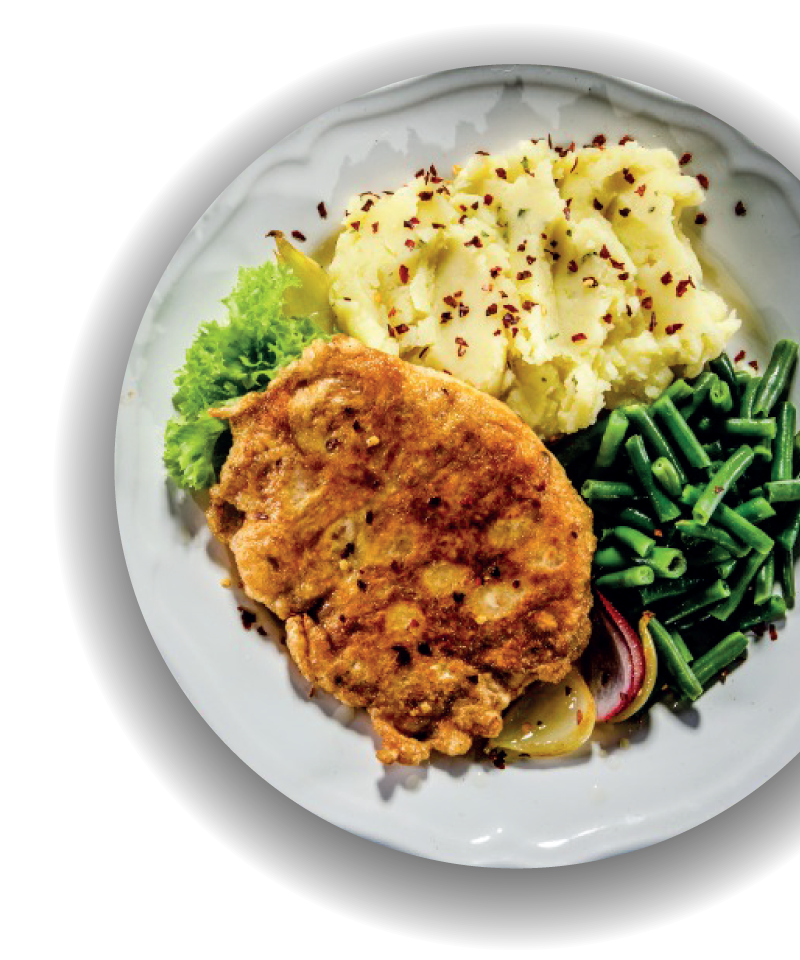
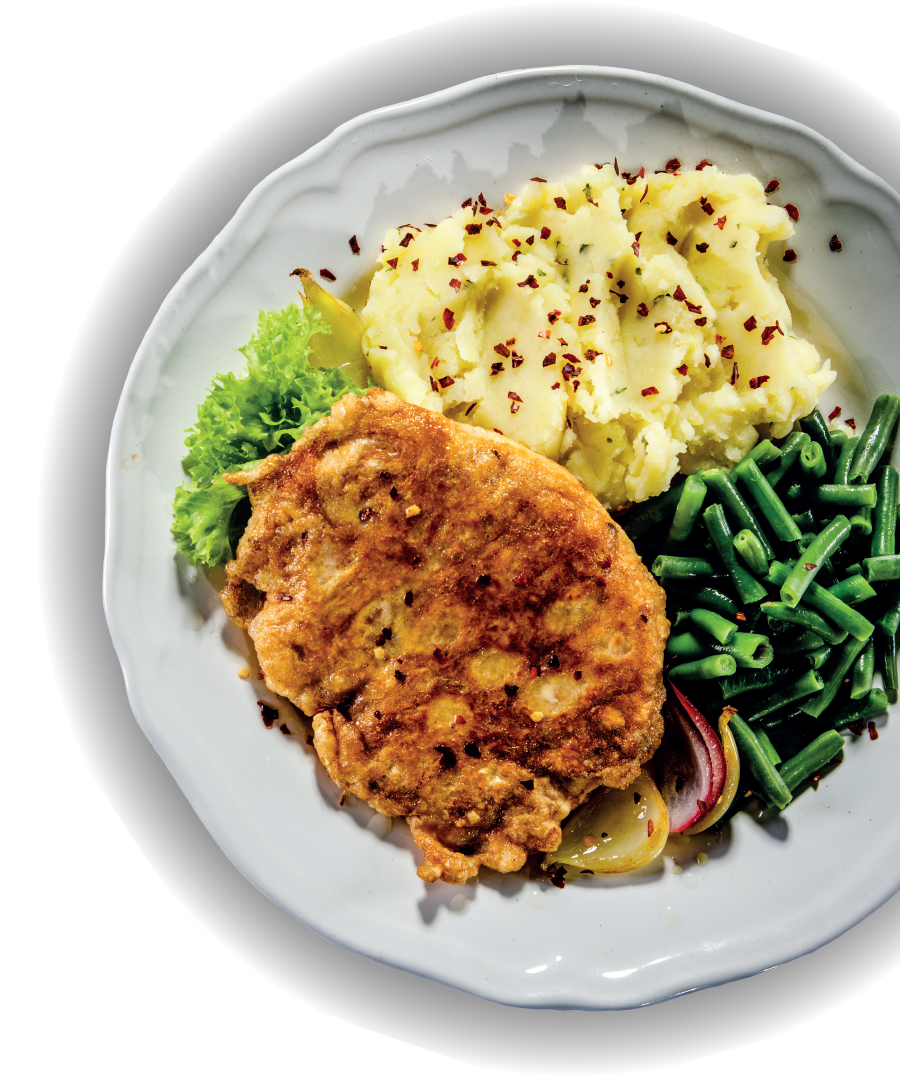
fixes

diff --git a/assets/css/responsive.css b/assets/css/responsive.css
@@ -1,7 +1,6 @@
 /* media query for TABLETS */
 
 @media screen and (min-width: 720px) and (orientation: portrait) {
-
   .header_text h2 {
     font-size: 4rem;
     line-height: 4rem;
@@ -49,7 +48,7 @@
 
   .how_container {
     flex-direction: row;
-    background-image: url('../images/how-bkg.jpg');
+    background-image: url("../images/how-bkg.jpg");
     background-size: cover;
     background-position: center center;
     background-repeat: no-repeat;
@@ -96,7 +95,6 @@
   }
 
   .video_container {
-
   }
 
   /* FORM SECTION */
@@ -114,7 +112,6 @@
   .form_container {
     width: 50%;
   }
-
 
   /* FOOTER SECTION  */
 
@@ -136,25 +133,41 @@
     bottom: 10px;
     right: 30px;
   }
-
 }
 
 @media screen and (min-width: 900px) and (orientation: portrait) {
-
   /* VIDEO SECTION */
 
   .video_section {
     position: relative;
     padding: 15vh 5vw 50px 5vw;
   }
-
 }
-
-
 
 /* DESKTOP AND LAPTOPS */
 
 @media screen and (min-width: 1000px) and (orientation: landscape) {
+  .wrapper {
+    height: 100vh;
+    overflow-x: hidden;
+    overflow-y: auto;
+    perspective: 300px;
+  }
+
+  .parallax__group {
+    position: relative;
+    height: auto;
+    width: 100vw;
+    transform-style: preserve-3d;
+  }
+
+  .parallax__layer {
+    position: absolute;
+    top: 0;
+    left: 0;
+    right: 0;
+    bottom: 0;
+  }
 
   header {
     padding: 0 8vw;
@@ -167,10 +180,14 @@
   }
 
   .plate-one {
-    top: auto;
-    bottom: -100px;
-    height: 90vh;
-    width: auto;
+    left: auto;
+    right: 10vw;
+    bottom: auto;
+    top: 12vh;
+    height: auto;
+    width: 45vw;
+    transform: translateZ(100px) scale(0.7);
+    z-index: 5;
   }
 
   .header_text {
@@ -232,7 +249,7 @@
 
   .how_container {
     flex-direction: row;
-    background-image: url('../images/how-bkg.jpg');
+    background-image: url("../images/how-bkg.jpg");
     background-size: cover;
     background-position: center center;
     background-repeat: no-repeat;
@@ -322,11 +339,9 @@
     bottom: 10px;
     right: 30px;
   }
-
 }
 
 @media screen and (min-width: 1440px) and (orientation: landscape) {
-
   header {
     padding: 0 10vw;
   }
@@ -336,12 +351,12 @@
     width: 120px;
   }
 
-  .plate-one {
+  /* .plate-one {
     top: auto;
     bottom: -120px;
     height: auto;
     width: 45vw;
-  }
+  } */
 
   /* SECTION TWO */
 
@@ -404,5 +419,4 @@
     bottom: 30px;
     right: 5vw;
   }
-
 }

diff --git a/assets/css/master.css b/assets/css/master.css
@@ -2,10 +2,14 @@
   box-sizing: border-box;
 }
 
-body {
+body,
+html {
+  width: 100%;
+  height: 100%;
   margin: 0;
   padding: 0;
-  font-family: 'Montserrat', sans-serif;
+  font-family: "Montserrat", sans-serif;
+  scroll-behavior: smooth;
 }
 
 a {
@@ -15,6 +19,20 @@ a {
 
 p {
   font-size: 0.9rem;
+}
+
+input {
+  -webkit-appearance: none;
+  border: none;
+}
+
+select {
[1 lines of base64/hex data omitted]
+    no-repeat 95% 50%;
+  -moz-appearance: none;
+  -webkit-appearance: none;
+  appearance: none;
+  /* and then whatever styles you want*/
 }
 
 .img-responsive {
@@ -47,6 +65,7 @@ header {
   top: 5vh;
   height: 60vh;
   width: auto;
+  z-index: 2;
 }
 
 .header_text {
@@ -218,11 +237,14 @@ header {
   margin: 30px 0;
 }
 
-.form input,select {
+.form input,
+select {
   width: 100%;
   margin: 5px 0;
   padding: 10px;
-  font-family: 'Open Sans', sans-serif;
+  font-family: "Open Sans", sans-serif;
+  background-color: #fff;
+  border: none;
 }
 
 .submit_container {
@@ -232,7 +254,7 @@ header {
 .submit {
   width: 60%;
   color: #fff;
-  background-color: #eaae37;
+  background-color: #eaae37 !important;
   font-size: 1.5rem;
   font-weight: 700;
   border: none;
@@ -242,7 +264,6 @@ header {
 }
 
 /* FOOTER */
-
 
 footer {
   background-color: #4d4d4f;

diff --git a/index.php b/index.php
@@ -9,7 +9,7 @@ $empresa=$_POST["empresa"];
 $area=$_POST["area"];
 $mail=$_POST["mail"];
 
-$sql = "INSERT INTO infoCon(nombre,apellido,empresa,area,mail) VALUES ('$nombre','$apellido','$empresa','$area','$mail')";
+$sql = "INSERT INTO infoCon(nombre,apellido,empresa,area,mail) VALUES ('$nombre','$apellido','$empresa','$area','$mail','$telefono')";
 
 if (mysqli_query($conn, $sql)) {
     // $SIPS = "Se te ha añadido con éxito";
@@ -46,87 +46,84 @@ if (mysqli_query($conn, $sql)) {
     <link href="assets/ico/icon.svg" rel="mask-icon" sizes="any" color="#718696">
   </head>
   <body>
-    <header>
-      <div class="header_logo">
-        <img class="img-responsive" src="assets/images/nutriwork-logo.png" alt="">
-      </div>
-      <img class="plate-one img-responsive" src="assets/images/plate-1.png" alt="">
-      <div class="header_text">
-        <h2>Alimentate bien </h2>
-        <h2><span class="yellow"><span>en tu traba</span>jo</span></h2>
-        <h2>con NutriWork</h2>
-        <a class="header_link" href="#form">Inscribirme</a>
-      </div>
-    </header>
-    <section class="section_two">
-      <div class="">
-        <h2>¿Sabías qué?...</h2>
-        <p>El <span>42,5%</span> de la alimentación de un adulto promedio se desarrolla en el ambiente de trabajo.</p>
-      </div>
-      <div class="">
-        <img class="target-icon" src="assets/images/target-icon.png" alt="">
-        <p>Nuestra meta es <span>mejorar tu salud y calidad de vida</span> mediante una alimentación balanceada.</p>
-      </div>
-    </section>
-    <section class="section_three">
-      <h2>¿Cómo funciona NutriWork?</h2>
-      <div class="how_container">
-        <div class="how_item">
-          <img src="assets/images/evaluacion.png" alt="">
-          <h4>Evaluación nutricional</h4>
-          <p>Lorem ipsum dolor sit amet, consectetuer adipiscing elit, sed diam nonummy nibh euismod tincidunt ut laoreet dolore magna aliquam erat volutpat.</p>
+    <div class="wrapper">
+      <div class="parallax__group">
+        <img class="parallax__layer plate-one img-responsive" src="assets/images/plate-1.png" alt="">
+        <div class="header_logo">
+          <img class="img-responsive" src="assets/images/nutriwork-logo.png" alt="">
         </div>
-        <div class="how_item">
-          <img src="assets/images/menu.png" alt="">
-          <h4>Elige tu menú diario</h4>
-          <p>Lorem ipsum dolor sit amet, consectetuer adipiscing elit, sed diam nonummy nibh euismod tincidunt ut laoreet dolore magna aliquam erat volutpat.</p>
+        <header>
+          <div class="header_text">
+            <h2>Alimentate bien </h2>
+            <h2><span class="yellow"><span>en tu traba</span>jo</span></h2>
+            <h2>con NutriWork</h2>
+            <a class="header_link" href="#form">Inscribirme</a>
+          </div>
+        </header>
+        <section class="section_two">
+          <div class="">
+            <h2>¿Sabías qué?...</h2>
+            <p>Según la OCDE el <span>74%</span> de la población adulta en Chile sufren sobrepeso u obesidad.</p>
+          </div>
+          <div class="">
+            <img class="target-icon" src="assets/images/target-icon.png" alt="">
+            <p>Nuestra meta es <span>mejorar tu salud y calidad de vida</span> mediante una alimentación balanceada.</p>
+          </div>
+        </section>
+      </div>
+      <section class="section_three">
+        <h2>¿Cómo funciona NutriWork?</h2>
+        <div class="how_container">
+          <div class="how_item">
+            <img src="assets/images/evaluacion.png" alt="">
+            <h4>Evaluación nutricional</h4>
+            <p>Profesionales de la salud irán a tu oficina y te realizarán una evaluación nutricional completa, detallando un plan alimenticio mensual.</p>
+          </div>
+          <div class="how_item">
+            <img src="assets/images/menu.png" alt="">
+            <h4>Elige tu menú diario</h4>
+            <p>Podrás elegir tu menú diario de acuerdo a tu plan alimenticio, recomendaciones nutricionales y la oferta del casino de tu lugar de trabajo.</p>
+          </div>
+          <div class="how_item">
+            <img src="assets/images/avance.png" alt="">
+            <h4>Comprueba tu avance</h4>
+            <p>Periódicamente estaremos evaluando tu avance y estado nutricional para ajustar tu plan alimenticio de ser necesario.</p>
+          </div>
         </div>
-        <div class="how_item">
-          <img src="assets/images/avance.png" alt="">
-          <h4>Comprueba tu avance</h4>
-          <p>Lorem ipsum dolor sit amet, consectetuer adipiscing elit, sed diam nonummy nibh euismod tincidunt ut laoreet dolore magna aliquam erat volutpat.</p>
+      </section>
+      <section class="form_section" id="form">
+        <div class="form_text">
+          <h2>¡Quiero <br>
+            <span class="yellow">inscribirme</span> <br>
+            en NutriWork!
+          </h2>
+          <p>Si quieres ser parte del programa NutriWork déjanos tus contactos y nos contactaremos contigo a la brevedad. Recuerda que todos los datos ingresados en el formulario serán utilizados solo para efectos del programa NutriWork.
+            <br><br>
+          Si quieres mayor información nos puedes contactar directamente en nuestro mail <a class="yellow" href="mailto:contacto@nutriwork.cl">contacto@nutriwork.cl</a></p>
         </div>
-      </div>
-    </section>
-    <section class="video_section">
-      <img class="img-responsive plate-two" src="assets/images/plate-2.png" alt="">
-      <div class="video_container">
-        <iframe src="https://www.youtube.com/embed/KtOiXzn4H9I" frameborder="0" allow="accelerometer; autoplay; encrypted-media; gyroscope; picture-in-picture" allowfullscreen></iframe>
-      </div>
-    </section>
-    <section class="form_section">
-      <div class="form_text">
-        <h2>¡Quiero <br>
-          <span class="yellow">inscribirme</span> <br>
-          en NutriWork!
-        </h2>
-        <p>Lorem ipsum dolor sit amet, consectetuer adipiscing elit, sed diam nonummy nibh euismod tincidunt ut laoreet dolore magna aliquam erat volutpat.
-Lorem ipsum dolor sit amet, consectetuer adipiscing elit, sed diam nonummy nibh euismod tincidunt ut laoreet dolore magna aliquam erat volutpat.</p>
-      </div>
-      <div class="form_container">
-
-
-        <form class="form" action="<?php echo $_SERVER['PHP_SELF']; ?>" onsubmit="return validateForm()"" method="post">
-          <input type="text" name="nombre" placeholder="Nombre" value="">
-          <input type="text" name="apellido" placeholder="Apellido" value"">
-          <select name="empresa">
-            <option value="agrosuper">Agrosuper</option>
-          </select>
-          <input type="text" name="area" placeholder="Área" value="">
-          <input type="text" name="mail" placeholder="Mail Corporativo" value="">
-          <div class="submit_container">
-          <input class="submit" type="submit" value="Inscribirme">
+        <div class="form_container" id="footer">
+          <form class="form" action="<?php echo $_SERVER['PHP_SELF']; ?>" onsubmit="return validateForm()"" method="post">
+            <input type="text" name="nombre" placeholder="Nombre" value="">
+            <input type="text" name="apellido" placeholder="Apellido" value"">
+            <select name="empresa">
+              <option value="agrosuper">Agrosuper</option>
+            </select>
+            <input type="text" name="area" placeholder="Área" value="">
+            <input type="text" name="mail" placeholder="Mail Corporativo" value="">
+            <input type="text" name="telefono" placeholder="Teléfono" value="">
+            <div class="submit_container">
+            <input class="submit" type="submit" value="Inscribirme">
+          </div>
+          </form>
         </div>
-        </form>
-
-      </div>
-    </section>
-    <footer>
-      <div class="footer_logos">
-        <img class="img-responsive" src="assets/images/logos-footer.png" alt="">
-      </div>
-      <h3>nutriwork.cl</h3>
-    </footer>
+      </section>
+      <footer>
+        <div class="footer_logos">
+          <img class="img-responsive" src="assets/images/logos-footer.png" alt="">
+        </div>
+        <h3>nutriwork.cl</h3>
+      </footer>
+    </div>
     <script src="https://code.jquery.com/jquery-3.5.1.js" integrity="sha256-QWo7LDvxbWT2tbbQ97B53yJnYU3WhH/C8ycbRAkjPDc=" crossorigin="anonymous"></script>
     <script type="text/javascript" src="assets/js/parallax.js"></script>
     <script type="text/javascript">
